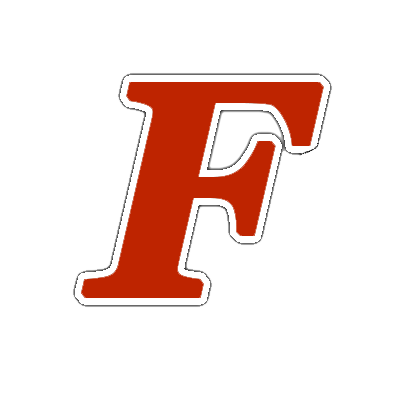
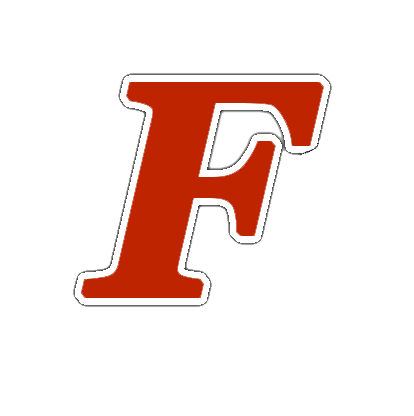
fast edit before good night sleep
fast edit before good night sleep

Changed region(s): [[0.1739, 0.15, 0.8116, 0.78]]

diff --git a/index.html b/index.html
@@ -57,17 +57,17 @@
 								</header>
 								<ul class="features">
 									<li>
-										<span class="icon solid major image"><a href="https://users.metropolia.fi/~willetu/fixfit/main.php" target="_blank"><img width="150" src="images/FixFit_F.png" alt="FixFit web site"/></a></span>
+										<span class="icon solid major image"><a href="https://users.metropolia.fi/~willetu/fixfit/main.php" target="_blank"><img width="170" src="images/FixFit_F.png" alt="FixFit web site"/></a></span>
 										<h3>FixFit</h3>
 										<p>Website app for better muscle practice is my werry first project mabe with solid HTML, CSS and just a bit of JS. Back-end side is spiced up with PhP and DataBase wich is maintaned by my univercity's MySql-server. i'vv never finished the app, cause i didn't have enough time along side with my studies.</p>
 									</li>
 									<li>
-										<span class="icon major style3 fa-copy"></span>
+										<span class="icon solid major image"><a href="https://github.com/stinkybrew/myamp" target="_blank"><img width="170" src="images/myAmp_ma.png" alt="myAmp webApp"/></a></span>
 										<h3>MyAmp</h3>
 										<p>A music listing app, made with Vue.js, HMTL, CSS, MySQL, Express, Axios</p>
 									</li>
 									<li>
-										<span class="icon major style5 fa-gem"></span>
+										<span class="icon solid major image"><a href="https://github.com/stinkybrew/weather-app" target="_blank"><img width="170" src="images/sample_pic.png" alt="weatherApp"/></a></span>
 										<h3>WeatherApp</h3>
 										<p>My first touch to React.js. made with React.js, HTML and CSS. This mini-project was made for the self training the framework.</p>
 									</li>
